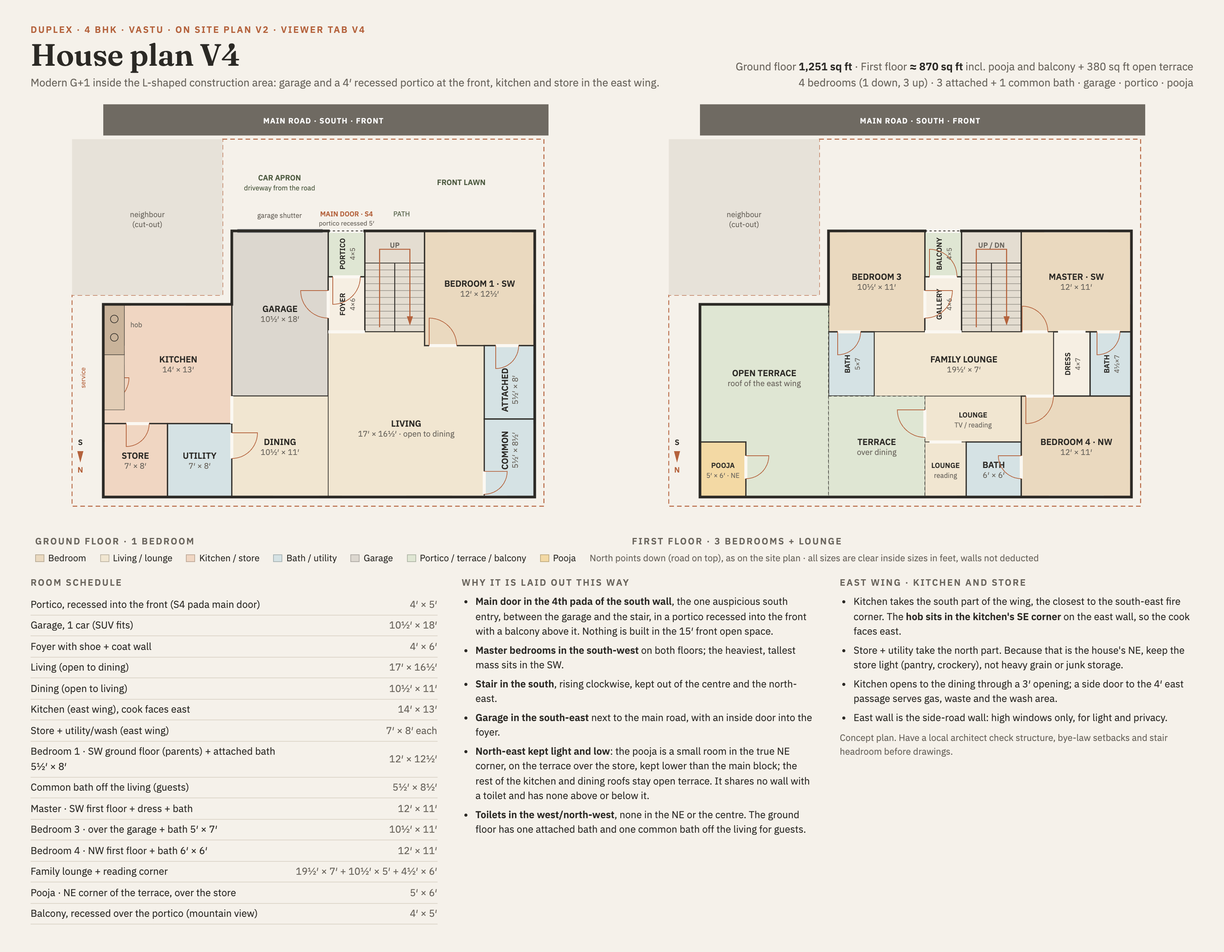
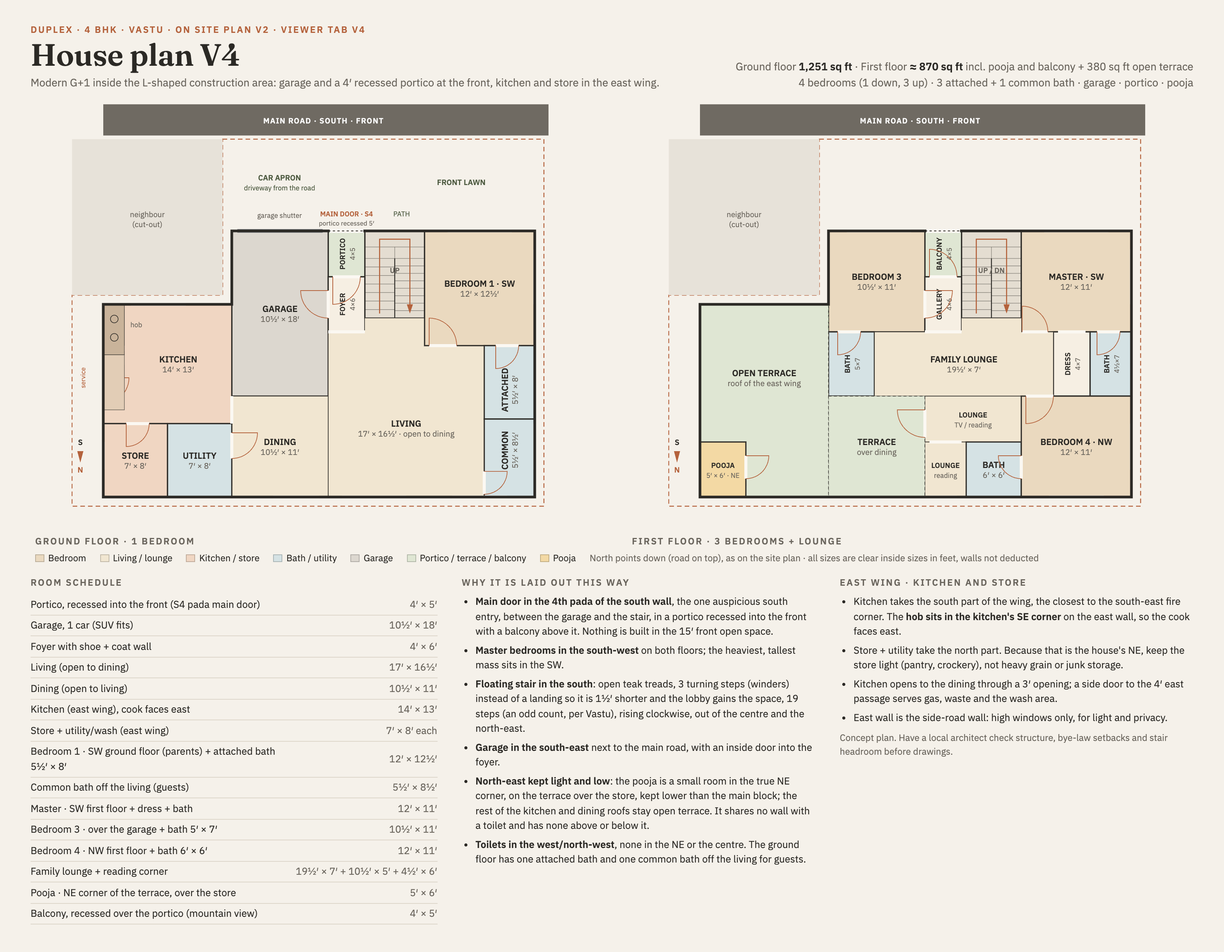
Floating winder stair in V4 and V6
Replace the dog-leg's landing with three winders and open teak treads on
a glass divider: 19 risers (odd, per Vastu), still in the south and
climbing clockwise. The stair is 1½' shorter, so the lobby and the
first-floor lounge gain the strip; a planter sits under the west flight.
Walk-mode climb verified in both versions; 2D plans updated.

Changed region(s): [[0.375, 0.7112, 0.6562, 0.9277], [0.7812, 0.2474, 0.8438, 0.3402], [0.3125, 0.2474, 0.3438, 0.3402]]

diff --git a/designs/v4/design.js b/designs/v4/design.js
@@ -4,7 +4,7 @@
    S4 pada main door in a 4'×5' portico recessed into the front (balcony above, also recessed — nothing is
    built in the 15' front open space; V5 widens it to 10½' by moving the stair to the centre).
    Garage SE · one SW bedroom down with an attached bath + a common bath · kitchen, store and utility in the
-   east wing (hob in the kitchen's SE, cook faces east) · dog-leg stair in the south climbing clockwise · master SW, bedrooms 3 and 4 up · pooja in the
+   east wing (hob in the kitchen's SE, cook faces east) · floating dog-leg stair with winders in the south, climbing clockwise · master SW, bedrooms 3 and 4 up · pooja in the
    true NE corner on the terrace over the store; the rest of the NE stays open terrace.
    Units/axes as v1: feet, +x = WEST, +z = NORTH, origin = SE corner of the plot. */
 registerDesign({
@@ -21,11 +21,11 @@ registerDesign({
     { n: 'Portico', lv: 0, r: [28.5, 32.5, 15, 20], f: 'stone', d: "recessed · 4'×5' · S4 main door" },
     { n: 'Garage', lv: 0, r: [18, 28.5, 15, 33], f: 'garage', d: "10½'×18' · SE" },
     { n: 'Foyer', lv: 0, r: [28.5, 32.5, 20, 26], f: 'stone', d: 'shoe + coat wall' },
-    { n: 'Stair', lv: 0, r: [32.5, 39, 15, 26], f: 'lobby', noFloor: true, noLabel: true },
+    { n: 'Stair', lv: 0, r: [32.5, 39, 15, 24.5], f: 'lobby', noFloor: true, noLabel: true },
     { n: 'Bedroom 1', lv: 0, r: [39, 51, 15, 27.5], f: 'wood', d: "12'×12½' · SW · parents" },
     { n: 'Attached bath', lv: 0, r: [45.5, 51, 27.5, 35.5], f: 'bath', noLabel: true },
     { n: 'Common bath', lv: 0, r: [45.5, 51, 35.5, 44], f: 'bath', d: 'guests' },
-    { n: 'Living', lv: 0, r: [28.5, 39, 26, 44], f: 'living', d: "17'×16½' · open to dining", extra: [[39, 45.5, 27.5, 44]] },
+    { n: 'Living', lv: 0, r: [28.5, 39, 26, 44], f: 'living', d: "17'×16½' · open to dining", extra: [[39, 45.5, 27.5, 44], [32.5, 39, 24.5, 26]] },
     { n: 'Dining', lv: 0, r: [18, 28.5, 33, 44], f: 'living', d: "10½'×11'" },
     { n: 'Kitchen', lv: 0, r: [4, 18, 23, 36], f: 'kitchen', d: "14'×13' · E wing · cook faces east" },
     { n: 'Store', lv: 0, r: [4, 11, 36, 44], f: 'garage', d: 'pantry · keep light' },
@@ -38,13 +38,13 @@ registerDesign({
     { n: 'Master bedroom', lv: 1, r: [39, 51, 15, 26], f: 'wood', d: "12'×11' · SW" },
     { n: 'Dress', lv: 1, r: [42.5, 46.5, 26, 33], f: 'wood', noLabel: true },
     { n: 'Master bath', lv: 1, r: [46.5, 51, 26, 33], f: 'bath', noLabel: true },
-    { n: 'Family lounge', lv: 1, r: [23, 42.5, 26, 33], f: 'lobby', d: 'TV + reading', extra: [[28.5, 39, 33, 38], [28.5, 33, 38, 44]] },
+    { n: 'Family lounge', lv: 1, r: [23, 42.5, 26, 33], f: 'lobby', d: 'TV + reading', extra: [[28.5, 39, 33, 38], [28.5, 33, 38, 44], [32.5, 39, 24.5, 26]] },
     { n: 'Bath 4', lv: 1, r: [33, 39, 38, 44], f: 'bath', noLabel: true },
     { n: 'Bedroom 4', lv: 1, r: [39, 51, 33, 44], f: 'wood', d: "12'×11' · NW" },
     { n: 'Terrace', lv: 1, r: [4, 18, 23, 38], f: 'stone', d: 'over the kitchen + dining · NE kept open', extra: [[9, 18, 38, 44], [18, 28.5, 33, 44]] },
     { n: 'Pooja', lv: 1, r: [4, 9, 38, 44], f: 'pooja', d: 'true NE corner' },
   ],
-  minimap: { stair: [[34.1, 25.5], [34.1, 17], [37.4, 17], [37.4, 25.5]] },
+  minimap: { stair: [[34.1, 24], [34.1, 16.5], [37.4, 16.5], [37.4, 24]] },
 
   build(h) {
     const { G, F, R, RT, EXT, INT, M, box, wall, door, win, tall, slide, railing } = h;
@@ -59,7 +59,7 @@ registerDesign({
     // ================= slabs
     box(18, 51, 0, G, 15, 44, M.plinth);
     box(4, 18, 0, G, 23, 44, M.plinth);
-    for (const [x1, x2, z1, z2] of [[18, 32.5, 15, 44], [32.5, 39, 26, 44], [39, 51, 15, 44], [4, 18, 23, 44]])
+    for (const [x1, x2, z1, z2] of [[18, 32.5, 15, 44], [32.5, 39, 24.5, 44], [39, 51, 15, 44], [4, 18, 23, 44]])
       box(x1, x2, F - 0.5, F, z1, z2, M.slab);                           // first floor, minus the stair hole; portico roof = balcony
     box(18, 51, R, RT, 15, 33, M.slab); box(28.5, 51, R, RT, 33, 44, M.slab);   // main roof
     box(3.6, 9.4, PJ, PJ + 0.4, 37.6, 44.4, M.slab);                     // pooja roof
@@ -70,7 +70,7 @@ registerDesign({
 
     // ================= exterior walls
     // south (front): garage | main door (S4 pada) | stair | bedroom 1
-    wall('x', 15, 18, 51, 0, F, EXT, [{ a: 18.6, b: 27.9, s: 0, h: 8.5, kind: 'open' }, { a: 28.5, b: 32.5, s: 0, h: F - 0.9, kind: 'open' }, win(41.5, 48.5)], M.extWall);
+    wall('x', 15, 18, 51, 0, F, EXT, [{ a: 18.6, b: 27.9, s: 0, h: 8.5, kind: 'open' }, { a: 28.5, b: 32.5, s: 0, h: F - 0.9, kind: 'open' }, win(33.5, 38, G, 4, 8.5), win(41.5, 48.5)], M.extWall);
     box(18.6, 27.9, G, 8.5, 14.45, 14.6, M.shutter);                     // garage shutter (closed)
     wall('x', 15, 18, 51, F, RT, EXT, [win(20, 27, F), { a: 28.5, b: 32.5, s: F, h: R - 0.4, kind: 'open' }, tall(33.5, 38, F + 1, F + 8.5), win(41.5, 48.5, F)], M.extWall);
     // portico back wall with the main door (still in the S4 pada line), stone side walls
@@ -115,7 +115,7 @@ registerDesign({
     wall('z', 18, 23, 44, g0, g1, INT, [{ a: 33, b: 36, s: g0, h: G + 7.5, kind: 'open' }, door(37, 39.8)]);   // garage | kitchen, dining | kitchen + utility
     wall('z', 28.5, 15, 38, g0, g1, INT, [door(21.5, 24.5)]);            // garage | foyer, lobby; TV wall partition to the dining
     wall('x', 33, 18, 28.5, g0, g1, INT);                                // garage | dining
-    wall('z', 32.5, 15, 26, g0, g1, INT, [], M.extWall);                  // portico, foyer | stair
+    wall('z', 32.5, 15, 24.5, g0, g1, INT, [], M.extWall);                // portico, foyer | stair
     wall('z', 39, 15, 27.5, g0, g1, INT);                                // stair | bedroom 1
     wall('x', 27.5, 39, 51, g0, g1, INT, [door(39.5, 42.5), door(46.75, 49.25)]);   // bedroom 1 | living, attached bath
     wall('z', 45.5, 27.5, 44, g0, g1, INT, [door(41.2, 43.7)]);          // living | baths
@@ -123,15 +123,20 @@ registerDesign({
     wall('x', 36, 4, 18, g0, g1, INT, [door(6.5, 9)]);                   // kitchen | store, utility
     wall('z', 11, 36, 44, g0, g1, INT);
 
-    // ================= dog-leg stair in the south, climbing clockwise (18 risers)
-    // from the lobby south up the east flight, turn on the landing by the front wall, north up the west flight
-    const RISE = (F - G) / 18, T = 7.5 / 8;
-    for (let i = 0; i < 8; i++) box(32.5, 35.75, G, G + (i + 1) * RISE, 26 - (i + 1) * T, 26 - i * T, M.tread);
-    box(32.5, 39, G, G + 9 * RISE, 15, 18.5, M.tread);                                                       // landing
-    for (let i = 0; i < 8; i++) box(35.75, 39, G, G + (10 + i) * RISE, 18.5 + i * T, 18.5 + (i + 1) * T, M.tread);
-    box(35.65, 35.85, G, F - 1, 18.5, 26, M.wall);
-    railing('x', 26, 32.5, 35.75, F);                                    // stair well, first floor
-    railing('z', 32.5, 20, 26, F);
+    // ================= floating dog-leg stair in the south, climbing clockwise
+    // open risers (thin teak treads), winders in place of a landing (stair is 1½' shorter, the lobby gains it),
+    // 19 risers — an odd count, per Vastu. From the lobby south up the east flight, round the winders by the
+    // front wall, north up the west flight.
+    const RISE = (F - G) / 19, T1 = 6.5 / 7, T2 = 6.5 / 8, TH = 0.2;
+    const tread = (x1, x2, z1, z2, k) => box(x1, x2, G + k * RISE - TH, G + k * RISE, z1, z2, M.tread);
+    for (let k = 1; k <= 7; k++) tread(32.5, 35.75, 24.5 - k * T1, 24.5 - (k - 1) * T1, k);        // east flight
+    tread(32.5, 35.75, 16.75, 18, 8); tread(32.5, 39, 15, 16.75, 9); tread(35.75, 39, 16.75, 18, 10);   // winders
+    for (let k = 11; k <= 18; k++) tread(35.75, 39, 18 + (k - 11) * T2, 18 + (k - 10) * T2, k);     // west flight
+    box(35.7, 35.8, G, F - 1, 18, 24.5, M.glass);                                                    // glass between the flights
+    box(35.65, 35.85, F - 1.15, F - 1, 18, 24.5, M.rail, nc);
+    box(36.4, 38.6, G, G + 1.2, 19.2, 22.5, M.stone); box(37, 38, G + 1.2, G + 3.2, 20.3, 21.4, M.fabric, nc);   // planter under the stair
+    railing('x', 24.5, 32.5, 35.75, F);                                  // stair well, first floor
+    railing('z', 32.5, 20, 24.5, F);
 
     // ================= first floor interior
     const f0 = F, f1 = R;

diff --git a/designs/v6/design.js b/designs/v6/design.js
@@ -5,7 +5,7 @@
    S4 pada main door flush on the front wall, next to an open carport (no shutter) that also has a side door
    into the foyer for a covered entry; nothing is built in the 15' front open space.
    Carport SE · one SW bedroom down with an attached bath + a common bath · kitchen, store and utility in the
-   east wing (hob in the kitchen's SE, cook faces east) · dog-leg stair in the south climbing clockwise · master SW, bedrooms 3 and 4 up · pooja in the
+   east wing (hob in the kitchen's SE, cook faces east) · floating dog-leg stair with winders in the south, climbing clockwise · master SW, bedrooms 3 and 4 up · pooja in the
    true NE corner on the terrace over the store; the rest of the NE stays open terrace.
    Units/axes as v1: feet, +x = WEST, +z = NORTH, origin = SE corner of the plot. */
 registerDesign({
@@ -21,11 +21,11 @@ registerDesign({
     // ground floor
     { n: 'Open garage', lv: 0, r: [18, 28.5, 15, 33], f: 'garage', d: "carport · 10½'×18' · SE" },
     { n: 'Foyer', lv: 0, r: [28.5, 32.5, 15, 26], f: 'stone', d: "4'×11' · S4 main door" },
-    { n: 'Stair', lv: 0, r: [32.5, 39, 15, 26], f: 'lobby', noFloor: true, noLabel: true },
+    { n: 'Stair', lv: 0, r: [32.5, 39, 15, 24.5], f: 'lobby', noFloor: true, noLabel: true },
     { n: 'Bedroom 1', lv: 0, r: [39, 51, 15, 27.5], f: 'wood', d: "12'×12½' · SW · parents" },
     { n: 'Attached bath', lv: 0, r: [45.5, 51, 27.5, 35.5], f: 'bath', noLabel: true },
     { n: 'Common bath', lv: 0, r: [45.5, 51, 35.5, 44], f: 'bath', d: 'guests' },
-    { n: 'Living', lv: 0, r: [28.5, 39, 26, 44], f: 'living', d: "17'×16½' · open to dining", extra: [[39, 45.5, 27.5, 44]] },
+    { n: 'Living', lv: 0, r: [28.5, 39, 26, 44], f: 'living', d: "17'×16½' · open to dining", extra: [[39, 45.5, 27.5, 44], [32.5, 39, 24.5, 26]] },
     { n: 'Dining', lv: 0, r: [18, 28.5, 33, 44], f: 'living', d: "10½'×11'" },
     { n: 'Kitchen', lv: 0, r: [4, 18, 23, 36], f: 'kitchen', d: "14'×13' · E wing · cook faces east" },
     { n: 'Store', lv: 0, r: [4, 11, 36, 44], f: 'garage', d: 'pantry · keep light' },
@@ -37,13 +37,13 @@ registerDesign({
     { n: 'Master bedroom', lv: 1, r: [39, 51, 15, 26], f: 'wood', d: "12'×11' · SW" },
     { n: 'Dress', lv: 1, r: [42.5, 46.5, 26, 33], f: 'wood', noLabel: true },
     { n: 'Master bath', lv: 1, r: [46.5, 51, 26, 33], f: 'bath', noLabel: true },
-    { n: 'Family lounge', lv: 1, r: [23, 42.5, 26, 33], f: 'lobby', d: 'TV + reading', extra: [[28.5, 39, 33, 38], [28.5, 33, 38, 44]] },
+    { n: 'Family lounge', lv: 1, r: [23, 42.5, 26, 33], f: 'lobby', d: 'TV + reading', extra: [[28.5, 39, 33, 38], [28.5, 33, 38, 44], [32.5, 39, 24.5, 26]] },
     { n: 'Bath 4', lv: 1, r: [33, 39, 38, 44], f: 'bath', noLabel: true },
     { n: 'Bedroom 4', lv: 1, r: [39, 51, 33, 44], f: 'wood', d: "12'×11' · NW" },
     { n: 'Terrace', lv: 1, r: [4, 18, 23, 38], f: 'stone', d: 'over the kitchen + dining · NE kept open', extra: [[9, 18, 38, 44], [18, 28.5, 33, 44]] },
     { n: 'Pooja', lv: 1, r: [4, 9, 38, 44], f: 'pooja', d: 'true NE corner' },
   ],
-  minimap: { stair: [[34.1, 25.5], [34.1, 17], [37.4, 17], [37.4, 25.5]] },
+  minimap: { stair: [[34.1, 24], [34.1, 16.5], [37.4, 16.5], [37.4, 24]] },
 
   build(h) {
     const { G, F, R, RT, EXT, INT, M, box, wall, door, win, tall, slide, railing } = h;
@@ -58,7 +58,7 @@ registerDesign({
     // ================= slabs
     box(18, 51, 0, G, 15, 44, M.plinth);
     box(4, 18, 0, G, 23, 44, M.plinth);
-    for (const [x1, x2, z1, z2] of [[18, 32.5, 15, 44], [32.5, 39, 26, 44], [39, 51, 15, 44], [4, 18, 23, 44]])
+    for (const [x1, x2, z1, z2] of [[18, 32.5, 15, 44], [32.5, 39, 24.5, 44], [39, 51, 15, 44], [4, 18, 23, 44]])
       box(x1, x2, F - 0.5, F, z1, z2, M.slab);                           // first floor, minus the stair hole
     box(18, 51, R, RT, 15, 33, M.slab); box(28.5, 51, R, RT, 33, 44, M.slab);   // main roof
     box(3.6, 9.4, PJ, PJ + 0.4, 37.6, 44.4, M.slab);                     // pooja roof
@@ -66,7 +66,7 @@ registerDesign({
 
     // ================= exterior walls
     // south (front): open carport | main door (S4 pada) | stair | bedroom 1
-    wall('x', 15, 18, 51, 0, F, EXT, [{ a: 18.4, b: 28.1, s: 0, h: F - 0.9, kind: 'open' }, door(29, 32.2), win(41.5, 48.5)], M.extWall);
+    wall('x', 15, 18, 51, 0, F, EXT, [{ a: 18.4, b: 28.1, s: 0, h: F - 0.9, kind: 'open' }, door(29, 32.2), win(33.5, 38, G, 4, 8.5), win(41.5, 48.5)], M.extWall);
     box(28.6, 32.6, G, F - 0.9, 14.3, 14.62, M.stone, nc);              // stone surround framing the main door
     wall('x', 15, 18, 51, F, RT, EXT, [win(20, 27, F), win(29, 32, F), tall(33.5, 38, F + 1, F + 8.5), win(41.5, 48.5, F)], M.extWall);
     // west
@@ -105,7 +105,7 @@ registerDesign({
     wall('z', 18, 23, 44, g0, g1, INT, [{ a: 33, b: 36, s: g0, h: G + 7.5, kind: 'open' }, door(37, 39.8)]);   // garage | kitchen, dining | kitchen + utility
     wall('z', 28.5, 15, 38, g0, g1, INT, [door(21.5, 24.5)]);            // garage | foyer, lobby; TV wall partition to the dining
     wall('x', 33, 18, 28.5, g0, g1, INT);                                // garage | dining
-    wall('z', 32.5, 15, 26, g0, g1, INT);                                // foyer | stair
+    wall('z', 32.5, 15, 24.5, g0, g1, INT);                              // foyer | stair
     wall('z', 39, 15, 27.5, g0, g1, INT);                                // stair | bedroom 1
     wall('x', 27.5, 39, 51, g0, g1, INT, [door(39.5, 42.5), door(46.75, 49.25)]);   // bedroom 1 | living, attached bath
     wall('z', 45.5, 27.5, 44, g0, g1, INT, [door(41.2, 43.7)]);          // living | baths
@@ -113,15 +113,20 @@ registerDesign({
     wall('x', 36, 4, 18, g0, g1, INT, [door(6.5, 9)]);                   // kitchen | store, utility
     wall('z', 11, 36, 44, g0, g1, INT);
 
-    // ================= dog-leg stair in the south, climbing clockwise (18 risers)
-    // from the lobby south up the east flight, turn on the landing by the front wall, north up the west flight
-    const RISE = (F - G) / 18, T = 7.5 / 8;
-    for (let i = 0; i < 8; i++) box(32.5, 35.75, G, G + (i + 1) * RISE, 26 - (i + 1) * T, 26 - i * T, M.tread);
-    box(32.5, 39, G, G + 9 * RISE, 15, 18.5, M.tread);                                                       // landing
-    for (let i = 0; i < 8; i++) box(35.75, 39, G, G + (10 + i) * RISE, 18.5 + i * T, 18.5 + (i + 1) * T, M.tread);
-    box(35.65, 35.85, G, F - 1, 18.5, 26, M.wall);
-    railing('x', 26, 32.5, 35.75, F);                                    // stair well, first floor
-    railing('z', 32.5, 15, 26, F);
+    // ================= floating dog-leg stair in the south, climbing clockwise
+    // open risers (thin teak treads), winders in place of a landing (stair is 1½' shorter, the lobby gains it),
+    // 19 risers — an odd count, per Vastu. From the lobby south up the east flight, round the winders by the
+    // front wall, north up the west flight.
+    const RISE = (F - G) / 19, T1 = 6.5 / 7, T2 = 6.5 / 8, TH = 0.2;
+    const tread = (x1, x2, z1, z2, k) => box(x1, x2, G + k * RISE - TH, G + k * RISE, z1, z2, M.tread);
+    for (let k = 1; k <= 7; k++) tread(32.5, 35.75, 24.5 - k * T1, 24.5 - (k - 1) * T1, k);        // east flight
+    tread(32.5, 35.75, 16.75, 18, 8); tread(32.5, 39, 15, 16.75, 9); tread(35.75, 39, 16.75, 18, 10);   // winders
+    for (let k = 11; k <= 18; k++) tread(35.75, 39, 18 + (k - 11) * T2, 18 + (k - 10) * T2, k);     // west flight
+    box(35.7, 35.8, G, F - 1, 18, 24.5, M.glass);                                                    // glass between the flights
+    box(35.65, 35.85, F - 1.15, F - 1, 18, 24.5, M.rail, nc);
+    box(36.4, 38.6, G, G + 1.2, 19.2, 22.5, M.stone); box(37, 38, G + 1.2, G + 3.2, 20.3, 21.4, M.fabric, nc);   // planter under the stair
+    railing('x', 24.5, 32.5, 35.75, F);                                  // stair well, first floor
+    railing('z', 32.5, 15, 24.5, F);
 
     // ================= first floor interior
     const f0 = F, f1 = R;

diff --git a/plans/house-plan-v6.html b/plans/house-plan-v6.html
@@ -86,7 +86,7 @@
       <ul>
         <li><b>Main door in the 4th pada of the south wall</b>, the one auspicious south entry, flush on the front wall right beside the open garage, between it and the stair. No portico: nothing is built in the 15′ front open space.</li>
         <li><b>Master bedrooms in the south-west</b> on both floors; the heaviest, tallest mass sits in the SW.</li>
-        <li><b>Stair in the south</b>, rising clockwise, kept out of the centre and the north-east.</li>
+        <li><b>Floating stair in the south</b>: open teak treads, 3 turning steps (winders) instead of a landing so it is 1½′ shorter and the lobby gains the space, 19 steps (an odd count, per Vastu), rising clockwise, out of the centre and the north-east.</li>
         <li><b>Open garage (carport) in the south-east</b> next to the main road. Its side door into the foyer gives a covered way in when it rains; the main entry stays on the front, not through the garage.</li>
         <li><b>North-east kept light and low</b>: the pooja is a small room in the true NE corner, on the terrace over the store, kept lower than the main block; the rest of the kitchen and dining roofs stay open terrace. It shares no wall with a toilet and has none above or below it.</li>
         <li><b>Toilets in the west/north-west</b>, none in the NE or the centre. The ground floor has one attached bath and one common bath off the living for guests.</li>
@@ -128,7 +128,7 @@ function plan(id, rooms, extra, openFront = [28.5, 32.5]) {
   T(X(8.8), Y(14.6), '(cut-out)', { fill: css('--muted'), 'font-size': 10 });
 
   for (const r of rooms) {
-    R(r.r[0], r.r[1], r.r[2], r.r[3], { fill: css(r.c), stroke: css('--ink'), 'stroke-width': r.thin ? 0.8 : 1.6, ...(r.dash ? { 'stroke-dasharray': '4 3' } : {}) });
+    R(r.r[0], r.r[1], r.r[2], r.r[3], { fill: css(r.c), stroke: r.nostroke ? 'none' : css('--ink'), 'stroke-width': r.thin ? 0.8 : 1.6, ...(r.dash ? { 'stroke-dasharray': '4 3' } : {}) });
     const cx = X((r.r[0] + r.r[2]) / 2) + (r.dx || 0), cy = Y((r.r[1] + r.r[3]) / 2) + (r.dy || 0);
     const w = r.r[2] - r.r[0], h = r.r[3] - r.r[1];
     const small = Math.min(w, h) < 5.5;
@@ -177,24 +177,27 @@ function windowMark(api, o, a, b, w) {
     el('line', { x1: X(a), y1: Y(b), x2: X(a), y2: Y(b + w), stroke: '#5b8aa0', 'stroke-width': 1.6 }); }
 }
 // dog-leg stair in [32.5,15,39,26]: landing at the south end, flights run north–south; up = clockwise
-function stair(api, label, dz = 0) {
+// floating dog-leg in [32.5,15,39,24.5]: winders by the front wall, flights north–south; up = clockwise
+function stair(api, label) {
   const { el, T } = api;
-  const x0 = 32.5, x1 = 39, y0 = 18.5 + dz, y1 = 26 + dz;
-  for (let y = y0; y <= y1 + 0.01; y += 0.75) el('line', { x1: X(x0), y1: Y(y), x2: X(x1), y2: Y(y), stroke: css('--ink'), 'stroke-width': .6, 'stroke-opacity': .6 });
-  el('line', { x1: X(35.75), y1: Y(y0), x2: X(35.75), y2: Y(y1), stroke: css('--ink'), 'stroke-width': 1.2 });
-  el('line', { x1: X(x0), y1: Y(y0), x2: X(x1), y2: Y(y0), stroke: css('--ink'), 'stroke-width': .9 });
-  // arrow: from the lobby south up the east flight, turn at the landing, north up the west flight (clockwise)
-  el('path', { d: `M${X(34.1)},${Y(25.5 + dz)} L${X(34.1)},${Y(17 + dz)} L${X(37.4)},${Y(17 + dz)} L${X(37.4)},${Y(24.5 + dz)}`, fill: 'none', stroke: css('--accent'), 'stroke-width': 1.3 });
-  el('polygon', { points: `${X(37.4)},${Y(25.3 + dz)} ${X(37.4) - 4},${Y(24.3 + dz)} ${X(37.4) + 4},${Y(24.3 + dz)}`, fill: css('--accent') });
-  T(X(35.75), Y(16.6 + dz) + 3, label, { 'font-size': 9.5, 'font-weight': 600, fill: css('--muted') });
+  const ln = (x1, y1, x2, y2, w = .6, o = .6) => el('line', { x1: X(x1), y1: Y(y1), x2: X(x2), y2: Y(y2), stroke: css('--ink'), 'stroke-width': w, 'stroke-opacity': o });
+  for (let k = 0; k <= 7; k++) ln(32.5, 18 + k * 6.5 / 7, 35.75, 18 + k * 6.5 / 7);     // east flight, 7 treads
+  for (let k = 0; k <= 8; k++) ln(35.75, 18 + k * 6.5 / 8, 39, 18 + k * 6.5 / 8);       // west flight, 8 treads
+  ln(32.5, 16.75, 39, 16.75); ln(35.75, 16.75, 35.75, 18);                               // 3 winders round the turn
+  ln(35.75, 18, 35.75, 24.5, 1.2, 1);                                                    // glass between the flights
+  // arrow: from the lobby south up the east flight, round the winders, north up the west flight (clockwise)
+  el('path', { d: `M${X(34.1)},${Y(24)} L${X(34.1)},${Y(15.9)} L${X(37.4)},${Y(15.9)} L${X(37.4)},${Y(23.2)}`, fill: 'none', stroke: css('--accent'), 'stroke-width': 1.3 });
+  el('polygon', { points: `${X(37.4)},${Y(24)} ${X(37.4) - 4},${Y(23)} ${X(37.4) + 4},${Y(23)}`, fill: css('--accent') });
+  T(X(35.75), Y(19.6), label, { 'font-size': 9.5, 'font-weight': 600, fill: css('--muted') });
 }
 
 // ---------- GROUND FLOOR ----------
 plan('gf', [
   { r: [18, 15, 28.5, 33], c: '--garage', l: 'OPEN GARAGE', n: 'carport · 10½′ × 18′' },
   { r: [28.5, 15, 32.5, 26], c: '--circ', l: 'FOYER', n: '4′ × 11′', rot: true },
-  { r: [32.5, 15, 39, 26], c: '--stair', l: '' },
+  { r: [32.5, 15, 39, 24.5], c: '--stair', l: '' },
   { r: [28.5, 26, 45.5, 44], c: '--living', l: 'LIVING', n: '17′ × 16½′ · open to dining', thin: true, dy: 18 },
+  { r: [32.5, 24.5, 39, 26.2], c: '--living', l: '', thin: true, nostroke: true },
   { r: [39, 15, 51, 27.5], c: '--bed', l: 'BEDROOM 1 · SW', n: '12′ × 12½′' },
   { r: [45.5, 27.5, 51, 35.5], c: '--wet', l: 'ATTACHED', n: '5½′ × 8′', rot: true, dy: 10 },
   { r: [45.5, 35.5, 51, 44], c: '--wet', l: 'COMMON', n: '5½′ × 8½′', rot: true, dy: -10 },
@@ -240,12 +243,13 @@ plan('ff', [
   { r: [18, 15, 28.5, 26], c: '--bed', l: 'BEDROOM 3', n: '10½′ × 11′' },
   { r: [18, 26, 23, 33], c: '--wet', l: 'BATH', n: '5×7', rot: true },
   { r: [28.5, 15, 32.5, 26], c: '--circ', l: 'GALLERY', n: '4′ × 11′', rot: true },
-  { r: [32.5, 15, 39, 26], c: '--stair', l: '' },
+  { r: [32.5, 15, 39, 24.5], c: '--stair', l: '' },
   { r: [39, 15, 51, 26], c: '--bed', l: 'MASTER · SW', n: '12′ × 11′' },
   { r: [42.5, 26, 46.5, 33], c: '--circ', l: 'DRESS', n: '4×7', rot: true },
   { r: [46.5, 26, 51, 33], c: '--wet', l: 'BATH', n: '4½×7', rot: true },
   { r: [23, 26, 42.5, 33], c: '--living', l: 'FAMILY LOUNGE', n: '19½′ × 7′', thin: true },
   { r: [28.5, 33, 39, 38], c: '--living', l: 'LOUNGE', n: 'TV / reading', thin: true },
+  { r: [32.5, 24.5, 39, 26.2], c: '--living', l: '', thin: true, nostroke: true },
   { r: [28.5, 38, 33, 44], c: '--living', l: 'LOUNGE', n: 'reading', thin: true },
   { r: [33, 38, 39, 44], c: '--wet', l: 'BATH', n: '6′ × 6′' },
   { r: [39, 33, 51, 44], c: '--bed', l: 'BEDROOM 4 · NW', n: '12′ × 11′' },

diff --git a/plans/house-plan-v4.html b/plans/house-plan-v4.html
@@ -88,7 +88,7 @@
       <ul>
         <li><b>Main door in the 4th pada of the south wall</b>, the one auspicious south entry, between the garage and the stair, in a portico recessed into the front with a balcony above it. Nothing is built in the 15′ front open space.</li>
         <li><b>Master bedrooms in the south-west</b> on both floors; the heaviest, tallest mass sits in the SW.</li>
-        <li><b>Stair in the south</b>, rising clockwise, kept out of the centre and the north-east.</li>
+        <li><b>Floating stair in the south</b>: open teak treads, 3 turning steps (winders) instead of a landing so it is 1½′ shorter and the lobby gains the space, 19 steps (an odd count, per Vastu), rising clockwise, out of the centre and the north-east.</li>
         <li><b>Garage in the south-east</b> next to the main road, with an inside door into the foyer.</li>
         <li><b>North-east kept light and low</b>: the pooja is a small room in the true NE corner, on the terrace over the store, kept lower than the main block; the rest of the kitchen and dining roofs stay open terrace. It shares no wall with a toilet and has none above or below it.</li>
         <li><b>Toilets in the west/north-west</b>, none in the NE or the centre. The ground floor has one attached bath and one common bath off the living for guests.</li>
@@ -130,7 +130,7 @@ function plan(id, rooms, extra, openFront = [28.5, 32.5]) {
   T(X(8.8), Y(14.6), '(cut-out)', { fill: css('--muted'), 'font-size': 10 });
 
   for (const r of rooms) {
-    R(r.r[0], r.r[1], r.r[2], r.r[3], { fill: css(r.c), stroke: css('--ink'), 'stroke-width': r.thin ? 0.8 : 1.6, ...(r.dash ? { 'stroke-dasharray': '4 3' } : {}) });
+    R(r.r[0], r.r[1], r.r[2], r.r[3], { fill: css(r.c), stroke: r.nostroke ? 'none' : css('--ink'), 'stroke-width': r.thin ? 0.8 : 1.6, ...(r.dash ? { 'stroke-dasharray': '4 3' } : {}) });
     const cx = X((r.r[0] + r.r[2]) / 2) + (r.dx || 0), cy = Y((r.r[1] + r.r[3]) / 2) + (r.dy || 0);
     const w = r.r[2] - r.r[0], h = r.r[3] - r.r[1];
     const small = Math.min(w, h) < 5.5;
@@ -179,16 +179,18 @@ function windowMark(api, o, a, b, w) {
     el('line', { x1: X(a), y1: Y(b), x2: X(a), y2: Y(b + w), stroke: '#5b8aa0', 'stroke-width': 1.6 }); }
 }
 // dog-leg stair in [32.5,15,39,26]: landing at the south end, flights run north–south; up = clockwise
-function stair(api, label, dz = 0) {
+// floating dog-leg in [32.5,15,39,24.5]: winders by the front wall, flights north–south; up = clockwise
+function stair(api, label) {
   const { el, T } = api;
-  const x0 = 32.5, x1 = 39, y0 = 18.5 + dz, y1 = 26 + dz;
-  for (let y = y0; y <= y1 + 0.01; y += 0.75) el('line', { x1: X(x0), y1: Y(y), x2: X(x1), y2: Y(y), stroke: css('--ink'), 'stroke-width': .6, 'stroke-opacity': .6 });
-  el('line', { x1: X(35.75), y1: Y(y0), x2: X(35.75), y2: Y(y1), stroke: css('--ink'), 'stroke-width': 1.2 });
-  el('line', { x1: X(x0), y1: Y(y0), x2: X(x1), y2: Y(y0), stroke: css('--ink'), 'stroke-width': .9 });
-  // arrow: from the lobby south up the east flight, turn at the landing, north up the west flight (clockwise)
-  el('path', { d: `M${X(34.1)},${Y(25.5 + dz)} L${X(34.1)},${Y(17 + dz)} L${X(37.4)},${Y(17 + dz)} L${X(37.4)},${Y(24.5 + dz)}`, fill: 'none', stroke: css('--accent'), 'stroke-width': 1.3 });
-  el('polygon', { points: `${X(37.4)},${Y(25.3 + dz)} ${X(37.4) - 4},${Y(24.3 + dz)} ${X(37.4) + 4},${Y(24.3 + dz)}`, fill: css('--accent') });
-  T(X(35.75), Y(16.6 + dz) + 3, label, { 'font-size': 9.5, 'font-weight': 600, fill: css('--muted') });
+  const ln = (x1, y1, x2, y2, w = .6, o = .6) => el('line', { x1: X(x1), y1: Y(y1), x2: X(x2), y2: Y(y2), stroke: css('--ink'), 'stroke-width': w, 'stroke-opacity': o });
+  for (let k = 0; k <= 7; k++) ln(32.5, 18 + k * 6.5 / 7, 35.75, 18 + k * 6.5 / 7);     // east flight, 7 treads
+  for (let k = 0; k <= 8; k++) ln(35.75, 18 + k * 6.5 / 8, 39, 18 + k * 6.5 / 8);       // west flight, 8 treads
+  ln(32.5, 16.75, 39, 16.75); ln(35.75, 16.75, 35.75, 18);                               // 3 winders round the turn
+  ln(35.75, 18, 35.75, 24.5, 1.2, 1);                                                    // glass between the flights
+  // arrow: from the lobby south up the east flight, round the winders, north up the west flight (clockwise)
+  el('path', { d: `M${X(34.1)},${Y(24)} L${X(34.1)},${Y(15.9)} L${X(37.4)},${Y(15.9)} L${X(37.4)},${Y(23.2)}`, fill: 'none', stroke: css('--accent'), 'stroke-width': 1.3 });
+  el('polygon', { points: `${X(37.4)},${Y(24)} ${X(37.4) - 4},${Y(23)} ${X(37.4) + 4},${Y(23)}`, fill: css('--accent') });
+  T(X(35.75), Y(19.6), label, { 'font-size': 9.5, 'font-weight': 600, fill: css('--muted') });
 }
 
 // ---------- GROUND FLOOR ----------
@@ -196,8 +198,9 @@ plan('gf', [
   { r: [28.5, 15, 32.5, 20], c: '--outdoor', l: 'PORTICO', n: '4×5', rot: true },
   { r: [18, 15, 28.5, 33], c: '--garage', l: 'GARAGE', n: '10½′ × 18′' },
   { r: [28.5, 20, 32.5, 26], c: '--circ', l: 'FOYER', n: '4×6', rot: true },
-  { r: [32.5, 15, 39, 26], c: '--stair', l: '' },
+  { r: [32.5, 15, 39, 24.5], c: '--stair', l: '' },
   { r: [28.5, 26, 45.5, 44], c: '--living', l: 'LIVING', n: '17′ × 16½′ · open to dining', thin: true, dy: 18 },
+  { r: [32.5, 24.5, 39, 26.2], c: '--living', l: '', thin: true, nostroke: true },
   { r: [39, 15, 51, 27.5], c: '--bed', l: 'BEDROOM 1 · SW', n: '12′ × 12½′' },
   { r: [45.5, 27.5, 51, 35.5], c: '--wet', l: 'ATTACHED', n: '5½′ × 8′', rot: true, dy: 10 },
   { r: [45.5, 35.5, 51, 44], c: '--wet', l: 'COMMON', n: '5½′ × 8½′', rot: true, dy: -10 },
@@ -245,12 +248,13 @@ plan('ff', [
   { r: [18, 15, 28.5, 26], c: '--bed', l: 'BEDROOM 3', n: '10½′ × 11′' },
   { r: [18, 26, 23, 33], c: '--wet', l: 'BATH', n: '5×7', rot: true },
   { r: [28.5, 20, 32.5, 26], c: '--circ', l: 'GALLERY', n: '4×6', rot: true },
-  { r: [32.5, 15, 39, 26], c: '--stair', l: '' },
+  { r: [32.5, 15, 39, 24.5], c: '--stair', l: '' },
   { r: [39, 15, 51, 26], c: '--bed', l: 'MASTER · SW', n: '12′ × 11′' },
   { r: [42.5, 26, 46.5, 33], c: '--circ', l: 'DRESS', n: '4×7', rot: true },
   { r: [46.5, 26, 51, 33], c: '--wet', l: 'BATH', n: '4½×7', rot: true },
   { r: [23, 26, 42.5, 33], c: '--living', l: 'FAMILY LOUNGE', n: '19½′ × 7′', thin: true },
   { r: [28.5, 33, 39, 38], c: '--living', l: 'LOUNGE', n: 'TV / reading', thin: true },
+  { r: [32.5, 24.5, 39, 26.2], c: '--living', l: '', thin: true, nostroke: true },
   { r: [28.5, 38, 33, 44], c: '--living', l: 'LOUNGE', n: 'reading', thin: true },
   { r: [33, 38, 39, 44], c: '--wet', l: 'BATH', n: '6′ × 6′' },
   { r: [39, 33, 51, 44], c: '--bed', l: 'BEDROOM 4 · NW', n: '12′ × 11′' },

diff --git a/README.md b/README.md
@@ -14,9 +14,9 @@ is a tab in the viewer: walk through it in 3D, or flip to its photo-real renders
 | **V1 · Original sketch** (`#v1`) | As drawn: main door on the east side road into the double-height NE living, garage on the front, 4 bedrooms (2 down, 2 up + theatre/study) |
 | **V2 · Front entrance** (`#v2`) | Main door on the front facing the road and mountains via a foyer; garage moved to the east side road with a terrace above; theatre/study removed so the first floor has 2 bedrooms and one large lounge |
 | **V3 · Vastu showpiece** (`#v3`) | From [`plans/v3-ground-floor-sketch.jpg`](plans/v3-ground-floor-sketch.jpg), re-planned by Vastu: S4-pada main door in a recessed stone porch under a cantilevered teak view-box lounge facing the mountains; masters SW (jaali-screened), kitchen east with the cook facing east, NE open courtyard with tulsi + water, pooja NE, clockwise west stair, open centre; side-road wall fully closed |
-| **V4 · Site plan v2 · 4BHK** (`#v4`) | The [`plans/house-plan-v4.png`](plans/house-plan-v4.png) plan built in 3D, inside the setback L of [`plans/site-plan-v2.png`](plans/site-plan-v2.png): S4 main door in a 4′ × 5′ portico recessed into the front with a balcony above (nothing built in the 15′ front open space), stair in the south, garage SE, 1 bedroom down (SW, attached bath) + common bath, master SW + bedrooms 3 and 4 up, kitchen/store/utility in the east wing, pooja in the NE corner of the terrace. No photo-real renders yet |
+| **V4 · Site plan v2 · 4BHK** (`#v4`) | The [`plans/house-plan-v4.png`](plans/house-plan-v4.png) plan built in 3D, inside the setback L of [`plans/site-plan-v2.png`](plans/site-plan-v2.png): S4 main door in a 4′ × 5′ portico recessed into the front with a balcony above (nothing built in the 15′ front open space), floating open-riser stair in the south with winders and 19 steps, garage SE, 1 bedroom down (SW, attached bath) + common bath, master SW + bedrooms 3 and 4 up, kitchen/store/utility in the east wing, pooja in the NE corner of the terrace. No photo-real renders yet |
 | **V5 · Wide portico** (`#v5`) | [`plans/house-plan-v5.png`](plans/house-plan-v5.png): V4 with a 10½′ × 5′ recessed portico and balcony; to fit it the stair moves 5′ north, over the centre of the main block (against Vastu). Living becomes 17′ × 13′ + lobby. No photo-real renders yet |
-| **V6 · Open garage** (`#v6`) | [`plans/house-plan-v6.png`](plans/house-plan-v6.png): V4 without a portico: the garage is an open carport and the S4 main door sits flush on the front wall right beside it, with a side door from the carport into the foyer for a covered entry. Foyer back to 4′ × 11′, gallery upstairs with a front window. No photo-real renders yet |
+| **V6 · Open garage** (`#v6`) | [`plans/house-plan-v6.png`](plans/house-plan-v6.png): V4 without a portico: the garage is an open carport and the S4 main door sits flush on the front wall right beside it, with a side door from the carport into the foyer for a covered entry. Foyer back to 4′ × 11′, gallery upstairs with a front window. Same floating winder stair as V4. No photo-real renders yet |
 
 ## Layout
 
